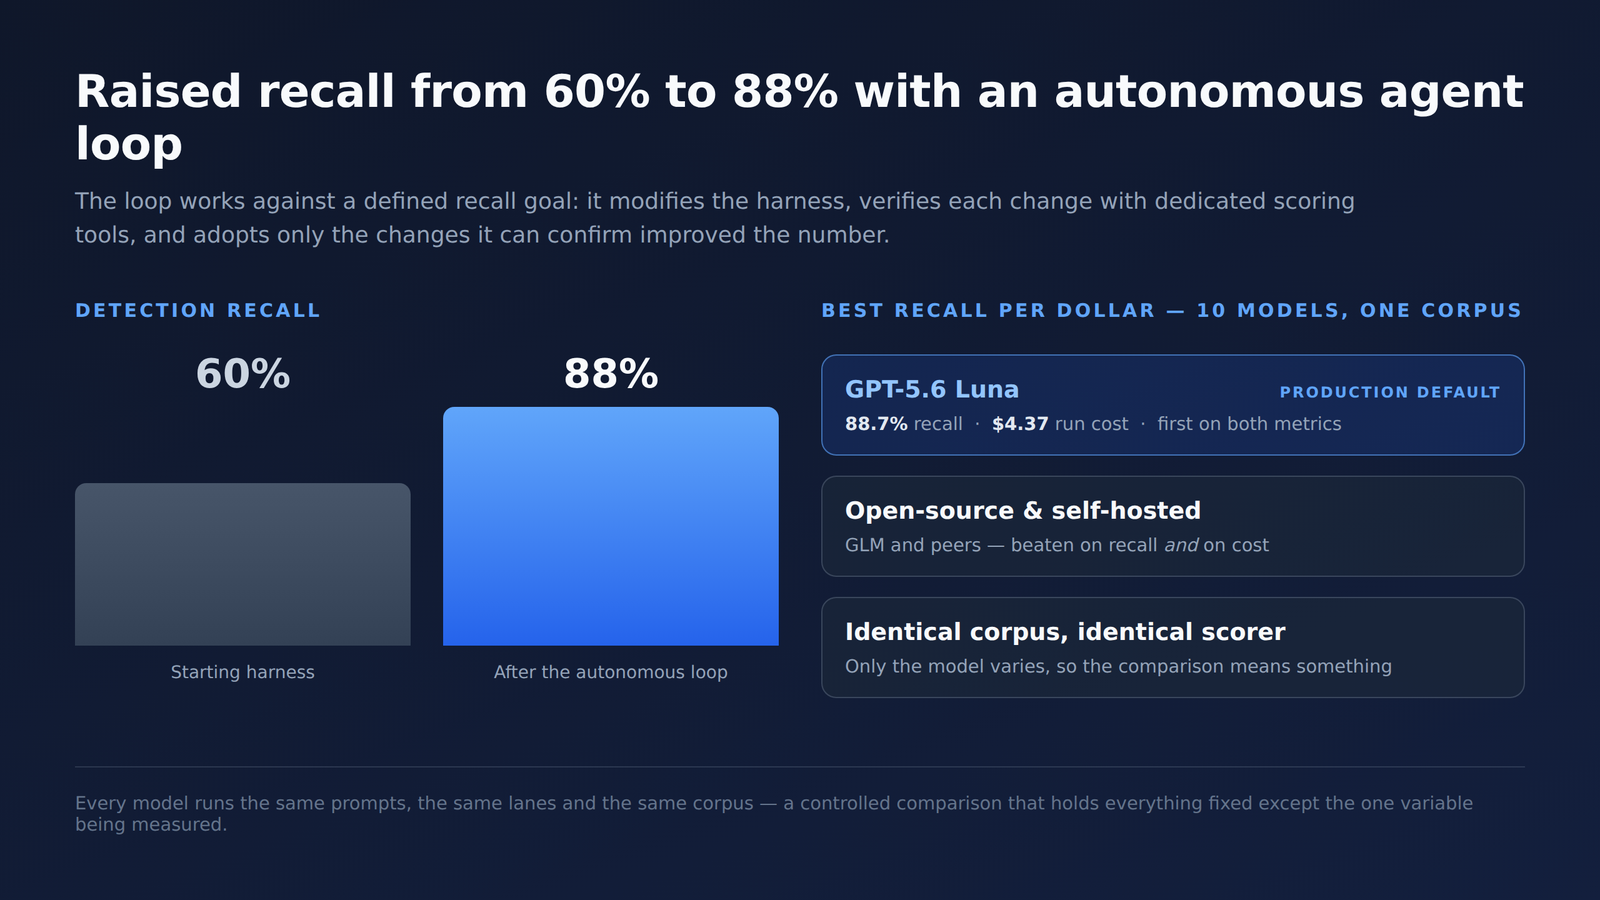
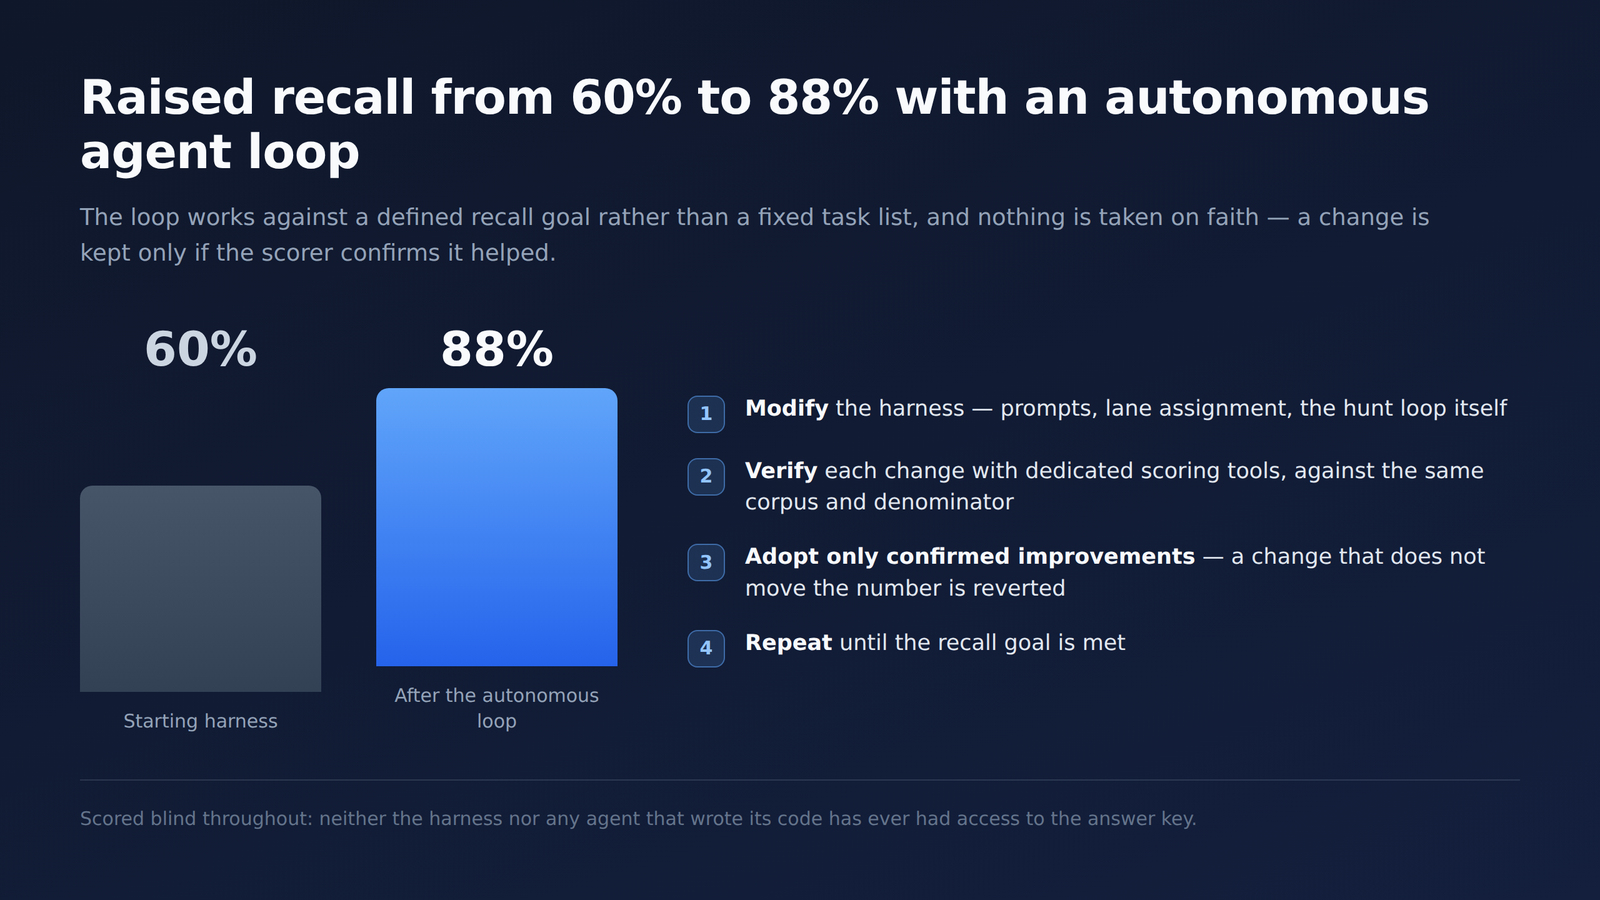
Add real architecture diagram and model benchmark chart to the harness gallery
- Render the README's mermaid pipeline flowchart to a standalone image and
  show it full width as one visible diagram, with a title, a legend for the
  model / deterministic / artifact node colours, and a caption.
- Add the recall-by-cost benchmark chart: recall against run cost on a log
  scale for GPT-5.6 Luna, GLM-5.2, Claude Sonnet 5 and Gemini 3.6 Flash,
  each direct-labelled with its recall and cost.
- Drop cyber-harness-pipeline.png. The real flowchart it was standing in
  for is now in the gallery, so the generated version was a duplicate.
- Rework cyber-harness-results.png to cover only the 60% to 88% autonomous
  loop and how it verifies each change. Its previous right-hand panel
  restated the recall-per-dollar ranking, which now sits directly above it
  in the benchmark chart.

Claude-Session: https://claude.ai/code/session_014G2fzqnEDrJLE1sNQ3CU1t

Changed region(s): [[0.0312, 0.3111, 0.9688, 0.8089], [0.0312, 0.0622, 0.9688, 0.4356], [0.0312, 0.8711, 0.9375, 0.9333]]

diff --git a/client/src/components/sections/project-card.tsx b/client/src/components/sections/project-card.tsx
@@ -234,27 +234,46 @@ export default function ProjectCard({ project, index }: ProjectCardProps) {
             <section className="space-y-4 p-6 rounded-lg border border-accent-gold/20 hover:border-accent-gold/40 transition-colors">
               <h3 className="text-2xl font-semibold">Project Gallery</h3>
               {project.title === "Cybersecurity Coding Agent Harness" && (
-                <div className="grid grid-cols-2 gap-4">
+                <div className="space-y-4">
                   <div
-                    className="aspect-video bg-muted rounded-lg overflow-hidden border border-accent-gold/10 cursor-zoom-in hover:opacity-90 transition-opacity col-span-2"
-                    onClick={(e) => handleImageClick("/cyber-harness-pipeline.png", e)}
+                    className="bg-muted rounded-lg overflow-hidden border border-accent-gold/10 cursor-zoom-in hover:opacity-90 transition-opacity"
+                    onClick={(e) => handleImageClick("/cyber-harness-architecture.png", e)}
                   >
                     <img
-                      src="/cyber-harness-pipeline.png"
-                      alt="Four-stage scanner pipeline: recon, lane selector, budget governor and hunt lanes"
-                      className="w-full h-full object-contain"
+                      src="/cyber-harness-architecture.png"
+                      alt="Scanner pipeline architecture: an 865-file corpus flows through Stage 0 recon, Stage 0.5 lane selector, Stage 1 budget governor and the Stage 2 per-lane hunt loop, each writing a JSON artifact the next stage reads, ending in candidate-findings.json and a cost reconcile step"
+                      className="w-full h-auto object-contain"
                     />
                   </div>
+                  <p className="text-sm text-muted-foreground">
+                    The full pipeline. Orange stages call a model, blue stages are deterministic TypeScript, and every arrow crosses a JSON artifact on disk rather than memory.
+                  </p>
                   <div
-                    className="aspect-video bg-muted rounded-lg overflow-hidden border border-accent-gold/10 cursor-zoom-in hover:opacity-90 transition-opacity col-span-2"
+                    className="bg-muted rounded-lg overflow-hidden border border-accent-gold/10 cursor-zoom-in hover:opacity-90 transition-opacity"
+                    onClick={(e) => handleImageClick("/cyber-harness-benchmark.png", e)}
+                  >
+                    <img
+                      src="/cyber-harness-benchmark.png"
+                      alt="Vulnerability scan recall by cost: GPT-5.6 Luna 88.7% at $4.37, GLM-5.2 85.6% at an estimated $7.33, Claude Sonnet 5 86.6% at $84.04, and Gemini 3.6 Flash 75.3% at $24.85, plotted against a log cost scale"
+                      className="w-full h-auto object-contain"
+                    />
+                  </div>
+                  <p className="text-sm text-muted-foreground">
+                    Recall against run cost on a log scale. Holding the corpus, prompts and scorer fixed and varying only the model is what makes the recall-per-dollar ranking meaningful.
+                  </p>
+                  <div
+                    className="aspect-video bg-muted rounded-lg overflow-hidden border border-accent-gold/10 cursor-zoom-in hover:opacity-90 transition-opacity"
                     onClick={(e) => handleImageClick("/cyber-harness-results.png", e)}
                   >
                     <img
                       src="/cyber-harness-results.png"
-                      alt="Detection recall raised from 60% to 88%, and the recall-per-dollar benchmark result"
+                      alt="Detection recall raised from 60% to 88% by an autonomous agent loop that modifies the harness, verifies each change with scoring tools, and adopts only confirmed improvements"
                       className="w-full h-full object-contain"
                     />
                   </div>
+                  <p className="text-sm text-muted-foreground">
+                    The self-improvement loop. Each change is scored before it is kept, so the gain is measured rather than assumed.
+                  </p>
                 </div>
               )}
               {project.title === "Video Processing Mobile App" && (
